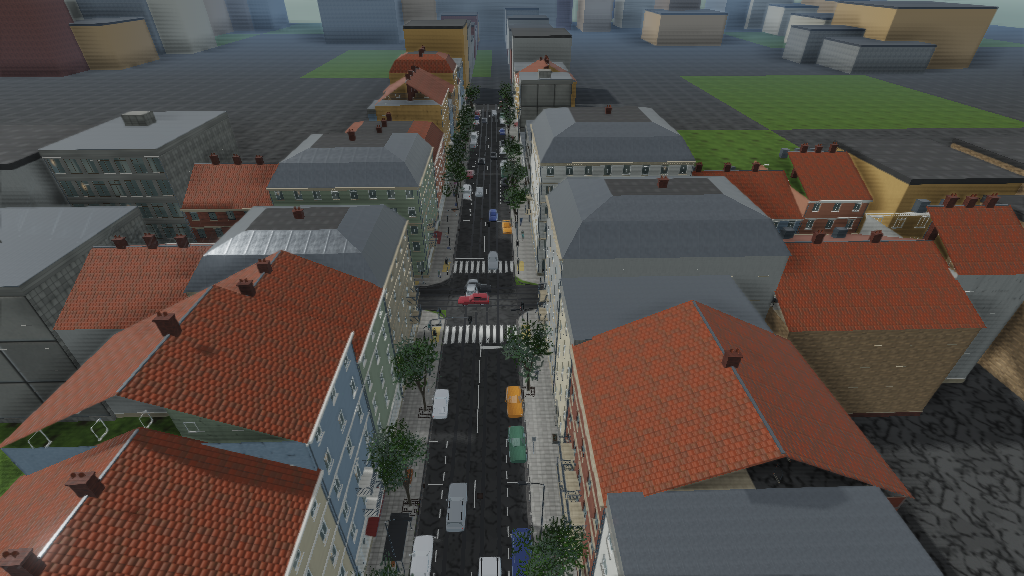
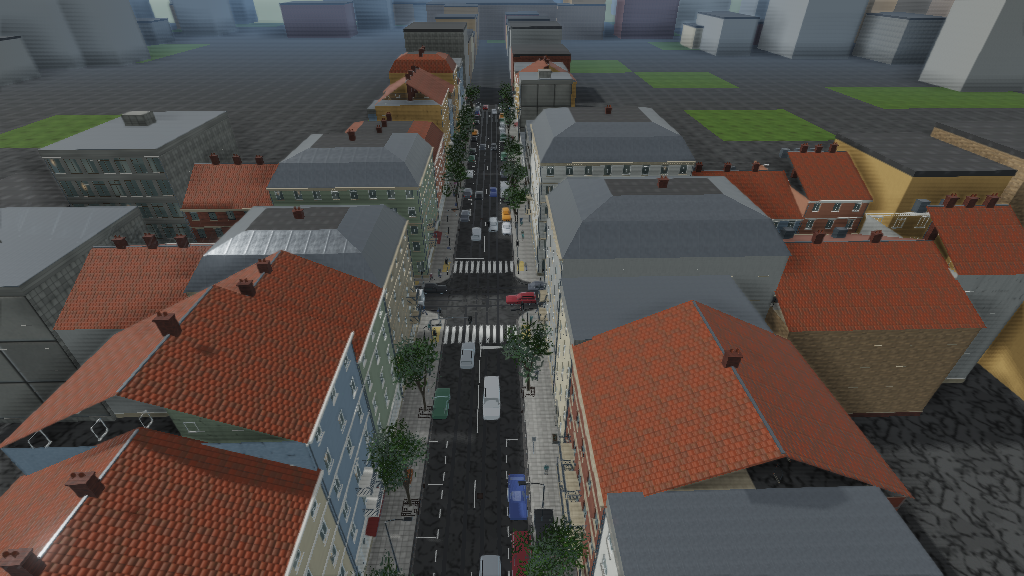
polish: a street with people on it, seen from somewhere worth standing
Five things a screenshot found.

The bus shelter stood six metres in front of the first viewpoint, where a
four-metre glass box is the whole picture. It is on the opposite footway
now: a shelter is scenery seen from across the street and an obstruction
seen from underneath.

The crossing viewpoint stood in a running traffic lane and spent half its
frames behind a van. The lanes are at +/-1.65 and a car is 1.84 m wide,
so the metre and a half of centre line between them is the only place in
the carriageway a camera can stand.

The footways were empty: 46 people over about a kilometre of pavement is
one every twenty metres, which is a quiet Sunday rather than a shopping
street. There are 78 now, and 30 vehicles moving. They are affordable
because the renderer culls a mover by distance as well as by frustum --
a person at 200 m is three pixels tall and used to cost the same three
draw calls as a person at three metres.

The ground outside the modelled district was varied at 92 m with a third
of the cells green, which from any camera above the roofline is a
chequerboard of meadows around a dense city block. It varies at 38 m now,
green is the exception, and it batches at 152 m -- fine variation and
five hundred draw calls of two triangles each is not a trade worth
making.

White and silver car paint came down from 0.86 to 0.70 albedo, which is
what a white car in sun actually reflects rather than what clips.

diff --git a/street/src/Scene/CityScene.cpp b/street/src/Scene/CityScene.cpp
@@ -154,8 +154,11 @@ void CityScene::buildContext(GeometryCollector& collector, Rng& rng)
 
     // The ground plane, in cells so it culls, and set a little below the road so
     // it can never win a depth fight with it.
+    // Small cells, and green is the exception. At 92 m a cell is a field, and a
+    // third of them green turned the district's surroundings into a chequerboard
+    // of meadows visible from any camera above the roofline.
     constexpr float kReach = 460.0f;
-    constexpr float kStep  = 92.0f;
+    constexpr float kStep  = 38.0f;
     for (float x = -kReach; x < kReach; x += kStep)
         for (float z = -kReach; z < kReach; z += kStep)
         {
@@ -164,8 +167,20 @@ void CityScene::buildContext(GeometryCollector& collector, Rng& rng)
             // Laid under the street rather than around it: leaving a hole where
             // the modelled block sits shows the sky's below-horizon haze through
             // every gap between a building and the kerb.
-            collector.setRegion((x + x1) * 0.5f, (z + z1) * 0.5f);
-            MeshBuilder& builder = collector.builder(rng.chance(0.35f) ? grass : ground);
+            //
+            // Varied at 38 m and batched at 152 m. The variation has to be fine
+            // or the surroundings read as a chequerboard of fields from any
+            // camera above the roofline; the batching has to be coarse or the
+            // ground plane alone is five hundred draw calls of two triangles
+            // each.
+            constexpr float kBatch = 152.0f;
+            const int coarseX = static_cast<int>(std::floor((x + x1) * 0.5f / kBatch));
+            const int coarseZ = static_cast<int>(std::floor((z + z1) * 0.5f / kBatch));
+            // Offset clear of the keys setRegion() derives for the blocks
+            // in this same collector, so a collision cannot quietly merge a
+            // ground cell with a building.
+            collector.setRegionKey(1000000 + coarseX * 64 + coarseZ);
+            MeshBuilder& builder = collector.builder(rng.chance(0.14f) ? grass : ground);
             builder.setTileSize(8.0f);
             builder.addQuad(Vector3(x, -0.04f, z), Vector3(x, -0.04f, z1), Vector3(x1, -0.04f, z1),
                             Vector3(x1, -0.04f, z));
@@ -563,11 +578,14 @@ void CityScene::buildStreetFurniture(Rng& rng, const RenderSettings& settings)
     }
 
     // --- the bus stop -------------------------------------------------------
-    // One shelter, on the west footway of the northern arm, set in the furniture
-    // zone with the walking width kept clear behind it.
-    if (runs.size() > 1)
+    // One shelter, on the *east* footway of the northern arm, set in the
+    // furniture zone with the walking width kept clear behind it. It was on the
+    // west footway, six metres in front of the first viewpoint, where a
+    // four-metre glass box is the whole picture: a shelter is scenery seen from
+    // across the street and an obstruction seen from underneath.
+    if (runs.size() > 3)
     {
-        const FootwayRun& run = runs[1];
+        const FootwayRun& run = runs[3];
         const float lateral = run.width * 0.5f - 1.05f;
         const Vector3 p(run.start.X + run.toKerb.X * lateral, ground,
                         run.start.Y + 34.0f + run.toKerb.Y * lateral);
@@ -1102,16 +1120,16 @@ void CityScene::buildTrafficAndPeople(const RenderSettings& settings)
     // the saturated cars are the exception that makes the row read as a row of
     // individual cars rather than a colour chart.
     static const Vector3 kPaints[TrafficSystem::kVariantCount] = {
-        Vector3(0.78f, 0.79f, 0.80f),   // silver
+        Vector3(0.62f, 0.63f, 0.65f),   // silver
         Vector3(0.045f, 0.048f, 0.052f),// black
-        Vector3(0.86f, 0.86f, 0.85f),   // white
+        Vector3(0.70f, 0.70f, 0.69f),   // white
         Vector3(0.16f, 0.17f, 0.19f),   // graphite
         Vector3(0.09f, 0.13f, 0.30f),   // dark blue
         Vector3(0.42f, 0.44f, 0.45f),   // grey
         Vector3(0.30f, 0.06f, 0.07f),   // dark red
         Vector3(0.10f, 0.20f, 0.14f),   // British racing green
         Vector3(0.66f, 0.30f, 0.06f),   // copper
-        Vector3(0.88f, 0.88f, 0.87f),   // white van
+        Vector3(0.72f, 0.72f, 0.71f),   // white van
     };
 
     const VehicleFactory vehicles(materials_);
@@ -1191,8 +1209,11 @@ void CityScene::buildTrafficAndPeople(const RenderSettings& settings)
     // Built whatever the settings say: the traffic and pedestrian switches turn
     // off updating and drawing, and rebuilding the whole population when one is
     // flicked back on would stall the frame for no reason.
-    traffic_.build(settings.seed, 26, 38);
-    pedestrians_.build(layout_, crossings_, settings.seed, 46);
+    // The counts a shopping street of this size actually carries. They are
+    // affordable because the renderer culls a mover by distance as well as by
+    // frustum: what is on screen is a few dozen, whatever the population is.
+    traffic_.build(settings.seed, 30, 44);
+    pedestrians_.build(layout_, crossings_, settings.seed, 78);
     buildStats_.vehicles = static_cast<int>(traffic_.vehicles().size());
     buildStats_.people   = static_cast<int>(pedestrians_.people().size());
 }
@@ -1217,8 +1238,12 @@ void CityScene::buildViewpoints()
     // bumper. A viewpoint that is not a place is not a view of the street.
     viewpoints_.push_back(Viewpoint{"Footway looking south to the junction",
                                     Vector3(-7.4f, eye, 46.0f), kSouth, -0.035f, 1.0996f});
+    // On the centre line rather than in a lane. The lanes are at +/-1.65 and a
+    // car is 1.84 m wide, so the metre and a half between them is the only place
+    // in the carriageway a camera can stand without spending half its frames
+    // inside a moving vehicle.
     viewpoints_.push_back(Viewpoint{"On the crossing",
-                                    Vector3(0.4f, eye, 19.0f), kSouth + 0.06f, 0.02f, 1.0996f});
+                                    Vector3(0.0f, eye, 15.5f), kSouth + 0.02f, 0.02f, 1.0996f});
     // On the footway outside the corner block, looking across the junction at it.
     viewpoints_.push_back(Viewpoint{"The corner block",
                                     Vector3(-7.6f, eye, 12.6f), kEast - 0.62f, 0.10f, 1.0996f});

diff --git a/street/src/Render/SceneRenderer.cpp b/street/src/Render/SceneRenderer.cpp
@@ -353,9 +353,17 @@ void SceneRenderer::cull(const Camera& camera, const RenderSettings& settings)
         ++stats_.visibleItems;
     }
 
+    // Movers are culled by distance as well as by frustum. A person at 200 m is
+    // three pixels tall and costs the same three draw calls as a person at
+    // three metres; without this the population of the street is bounded by
+    // what the far end of it can afford rather than by what the near end needs.
+    const float moverDistance = settings.propCullDistance > 0.0f
+                                    ? settings.propCullDistance
+                                    : 0.0f;
     for (std::size_t i = 0; i < dynamic_.size(); ++i)
     {
         const SceneItem& item = dynamic_[i];
+        if (moverDistance > 0.0f && DistanceToBox(eye, item.worldBounds) > moverDistance) continue;
         if (frustum.Contains(item.worldBounds) == ContainmentType::Disjoint) continue;
         visibleDynamic_.push_back(i);
         ++stats_.visibleItems;

diff --git a/README.md b/README.md
@@ -460,9 +460,9 @@ fraction of this.
 
 | | |
 | --- | --- |
-| Scene build | 8.0 s generating, 1.1 s from compiled content |
-| Static batches | 787 |
-| Triangles in the scene | 498 276 |
+| Scene build | 7.7 s generating, about 1 s of that from compiled content |
+| Static batches | 780 |
+| Triangles in the scene | 499 406 |
 | Geometry memory | 35 MiB |
 | Textures | 313 (145 catalogue surfaces plus per-shop signage) |
 | Texture memory | 291 MiB |
